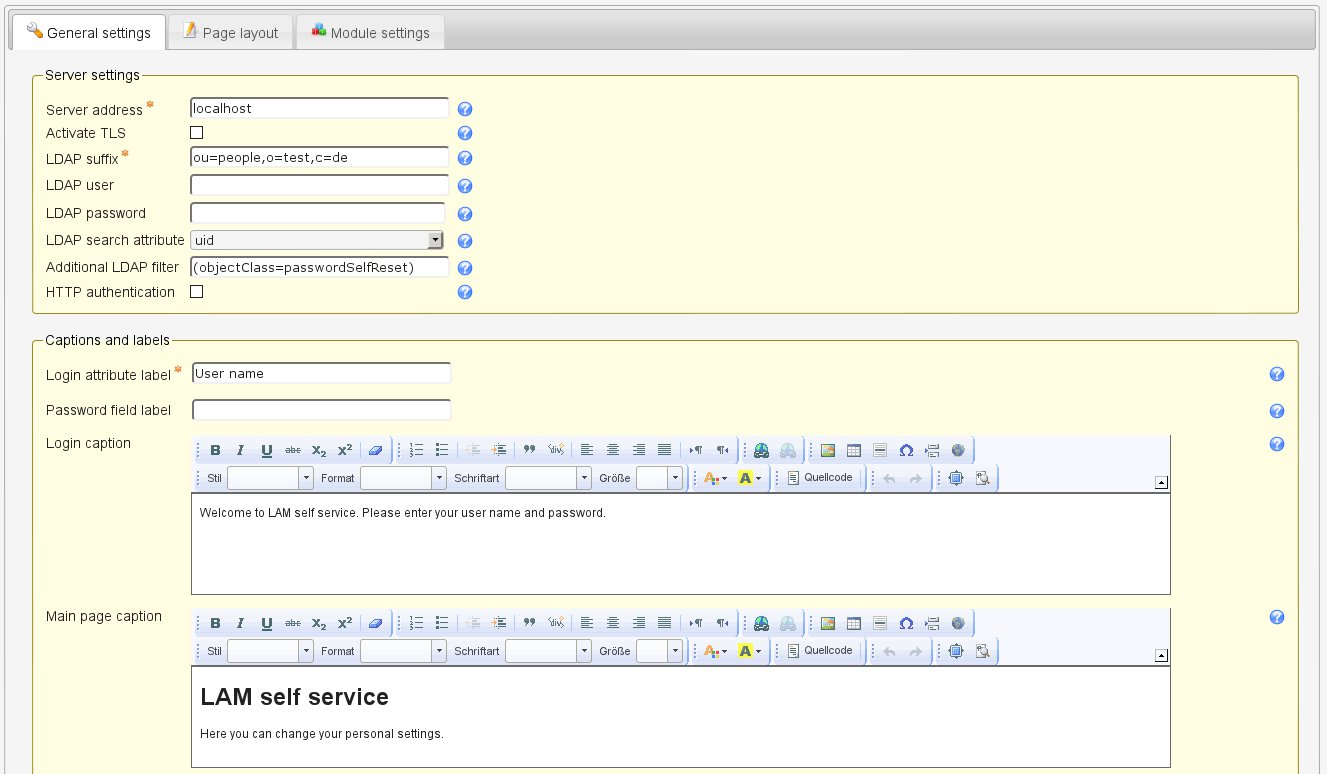
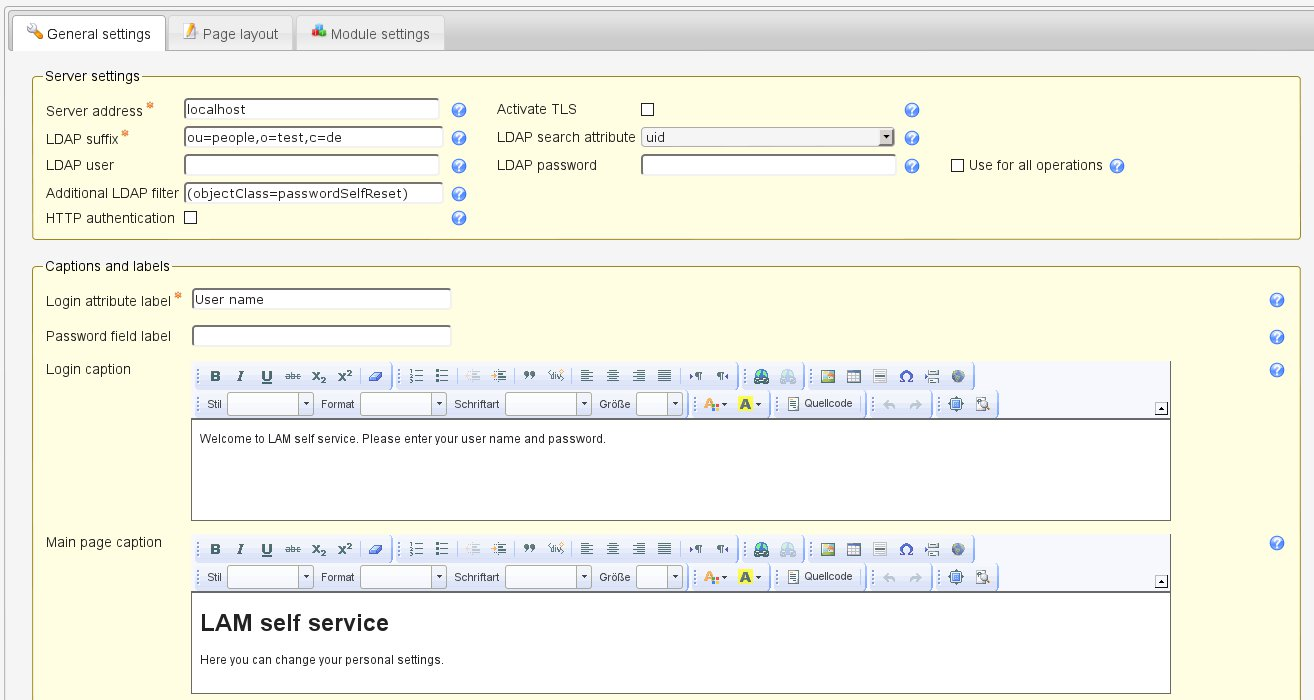
allow to run read/modify as bind user

Changed region(s): [[0.0, 0.0, 1.0, 1.0], [0.8113, 0.21, 0.8737, 0.24], [0.0312, 0.57, 0.0936, 0.6]]

diff --git a/lam/templates/lib/500_lam.js b/lam/templates/lib/500_lam.js
@@ -354,6 +354,10 @@ function equalWidth(elementIDs) {
 			maxWidth = jQuery(elementIDs[i]).width();
 		};
 	}
+	if (maxWidth < 5) {
+		// no action if invalid width value (e.g. because of hidden tab)
+		return;
+	}
 	for (var i = 0; i < elementIDs.length; ++i) {
 		jQuery(elementIDs[i]).css({'width': maxWidth - (jQuery(elementIDs[i]).outerWidth() - jQuery(elementIDs[i]).width())});
 	}
